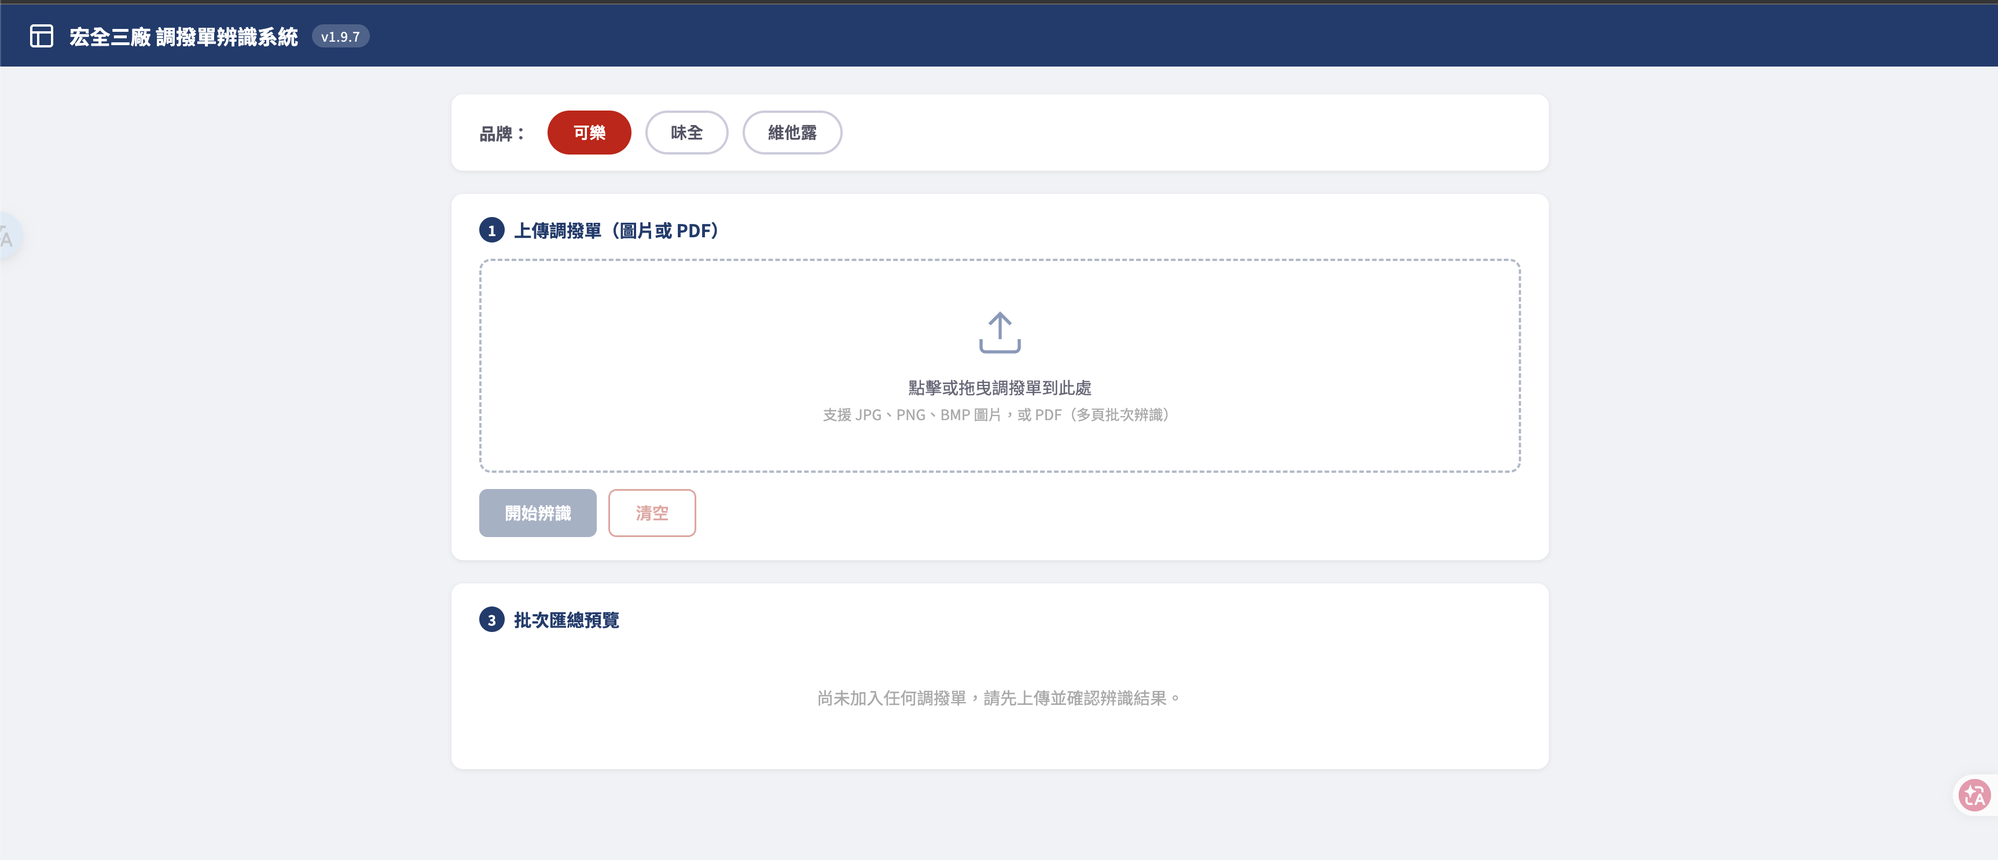
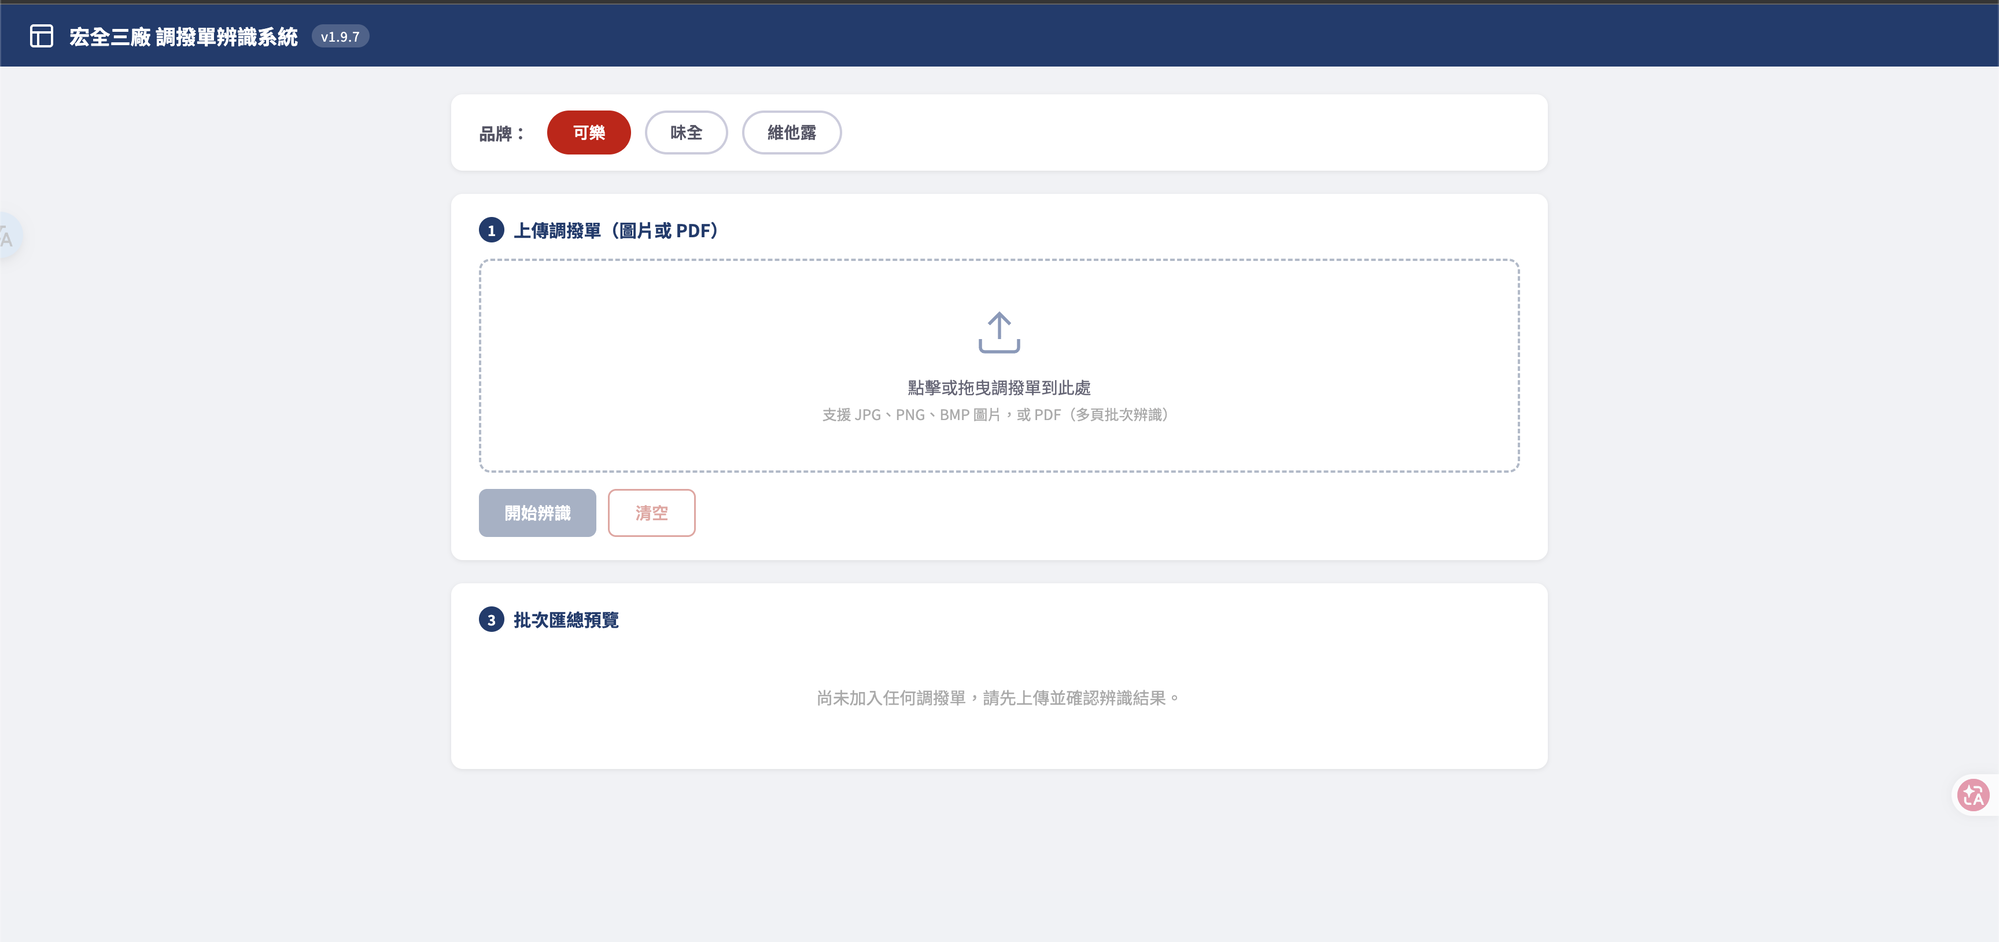
新增案例四畫面截圖、更新案例三截圖，卡片改版為瀏覽器外框樣式
- 補上案例四（職安衛法規整理網站）畫面截圖，更新案例三（調撥單 OCR）截圖
- 卡片改為 macOS 瀏覽器外框樣式：紅黃綠圓點 + 網址列，標題下方分類徽章，底部「前往網站」按鈕
- 首頁顯示總案例數

diff --git a/index.html b/index.html
@@ -16,6 +16,7 @@
     --chip-bg: #eef2ff;
     --chip-text: #2c3e8f;
     --image-bg: #eceef2;
+    --titlebar-bg: #e7e9ee;
   }
   @media (prefers-color-scheme: dark) {
     :root {
@@ -29,6 +30,7 @@
       --chip-bg: #232945;
       --chip-text: #b3c1ff;
       --image-bg: #26292f;
+      --titlebar-bg: #24272e;
     }
   }
   * { box-sizing: border-box; }
@@ -73,7 +75,17 @@
   .changelog-entry .date { font-size: 13px; color: var(--text-muted); margin-bottom: 3px; font-weight: 600; }
   .changelog-entry .notes { font-size: 15px; line-height: 1.6; }
   header h1 { margin: 0 0 10px; font-size: 30px; font-weight: 800; letter-spacing: -0.01em; }
-  header p { margin: 0; color: var(--text-muted); font-size: 16px; }
+  header p { margin: 0 0 14px; color: var(--text-muted); font-size: 16px; }
+  #totalCount {
+    display: inline-block;
+    background: var(--card-bg);
+    border: 1.5px solid var(--border);
+    color: var(--text);
+    font-size: 13.5px;
+    font-weight: 700;
+    padding: 6px 16px;
+    border-radius: 999px;
+  }
 
   /* ---------- controls ---------- */
   .controls {
@@ -127,6 +139,30 @@
     flex-direction: column;
   }
   .card:hover { border-color: var(--accent); }
+  .card .browser-bar {
+    display: flex;
+    align-items: center;
+    gap: 10px;
+    padding: 10px 12px;
+    background: var(--titlebar-bg);
+    border-bottom: 1.5px solid var(--border);
+  }
+  .card .traffic-lights { display: flex; gap: 6px; flex-shrink: 0; }
+  .card .dot { width: 10px; height: 10px; border-radius: 50%; }
+  .card .dot.red { background: #ff5f57; }
+  .card .dot.yellow { background: #febc2e; }
+  .card .dot.green { background: #28c840; }
+  .card .url-pill {
+    flex: 1;
+    background: var(--card-bg);
+    border-radius: 6px;
+    padding: 5px 10px;
+    font-size: 12px;
+    color: var(--text-muted);
+    white-space: nowrap;
+    overflow: hidden;
+    text-overflow: ellipsis;
+  }
   .card .thumb {
     width: 100%;
     height: 180px;
@@ -139,7 +175,16 @@
   .card .thumb img { max-width: 100%; max-height: 100%; object-fit: contain; display: block; }
   .card .thumb .placeholder { color: var(--text-muted); font-size: 14px; }
   .card .body { padding: 18px; display: flex; flex-direction: column; gap: 9px; flex: 1; }
-  .card .category-badge { font-size: 12.5px; font-weight: 700; color: var(--accent); text-transform: uppercase; letter-spacing: 0.03em; }
+  .card .type-badge {
+    display: inline-block;
+    align-self: flex-start;
+    background: var(--chip-bg);
+    color: var(--chip-text);
+    font-size: 12.5px;
+    font-weight: 700;
+    padding: 4px 12px;
+    border-radius: 999px;
+  }
   .card h3 { margin: 0; font-size: 18px; font-weight: 700; line-height: 1.35; }
   .card .summary {
     font-size: 14.5px;
@@ -150,9 +195,22 @@
     -webkit-box-orient: vertical;
     overflow: hidden;
   }
-  .card .meta { font-size: 13.5px; color: var(--text-muted); margin-top: auto; }
+  .card .meta { font-size: 13.5px; color: var(--text-muted); }
   .chips { display: flex; flex-wrap: wrap; gap: 7px; }
   .chip { background: var(--chip-bg); color: var(--chip-text); font-size: 13px; font-weight: 600; padding: 4px 11px; border-radius: 999px; }
+  .card .cta-btn {
+    display: block;
+    text-align: center;
+    background: var(--accent);
+    color: #fff;
+    font-weight: 700;
+    font-size: 15px;
+    padding: 12px;
+    border-radius: 10px;
+    text-decoration: none;
+    margin-top: auto;
+  }
+  .card .cta-btn:hover { opacity: 0.9; }
   #empty { text-align: center; color: var(--text-muted); font-size: 16px; padding: 60px 0; display: none; }
 
   /* ---------- detail view (full page, no overlay) ---------- */
@@ -237,6 +295,7 @@
     </details>
     <h1>AI / 自動化案例庫</h1>
     <p>分享用 AI 或自動化工具解決廠內流程問題的實際案例</p>
+    <span id="totalCount"></span>
   </header>
 
   <div class="controls">
@@ -270,8 +329,20 @@ async function load() {
   const changelog = await changelogRes.json();
   renderVersion(changelog);
   renderCategoryFilters();
+  document.getElementById('totalCount').textContent = `共收錄 ${cases.length} 個案例`;
   render();
   routeFromHash();
+}
+
+function domainFromUrl(url) {
+  if (!url) return '尚無網站連結';
+  try {
+    const u = new URL(url);
+    const path = u.pathname.replace(/\/$/, '');
+    return u.hostname + path;
+  } catch (e) {
+    return url;
+  }
 }
 
 function renderVersion(changelog) {
@@ -376,6 +447,13 @@ function renderCard(c) {
   card.className = 'card';
   card.onclick = () => { location.hash = 'case/' + encodeURIComponent(c.id); };
 
+  const browserBar = document.createElement('div');
+  browserBar.className = 'browser-bar';
+  browserBar.innerHTML = `
+    <div class="traffic-lights"><span class="dot red"></span><span class="dot yellow"></span><span class="dot green"></span></div>
+    <div class="url-pill">${escapeHtml(domainFromUrl(c.url))}</div>
+  `;
+
   const thumb = document.createElement('div');
   thumb.className = 'thumb';
   if (c.screenshot) {
@@ -387,13 +465,18 @@ function renderCard(c) {
   const body = document.createElement('div');
   body.className = 'body';
   body.innerHTML = `
-    <div class="category-badge">${(c.category || []).map(escapeHtml).join(' / ')}</div>
     <h3>${escapeHtml(c.title)}</h3>
+    <div class="type-badge">${(c.category || []).map(escapeHtml).join('、')}</div>
     <div class="summary">${escapeHtml(c.summary || '')}</div>
     <div class="chips">${(c.tools||[]).map(itemLabel).map(t => `<span class="chip">${escapeHtml(t)}</span>`).join('')}</div>
     <div class="meta">製作人：${escapeHtml(c.author || '未提供')}</div>
+    ${c.url ? `<a class="cta-btn" href="${c.url}" target="_blank" rel="noopener">前往網站 →</a>` : ''}
   `;
+  if (c.url) {
+    body.querySelector('.cta-btn').addEventListener('click', (e) => e.stopPropagation());
+  }
 
+  card.appendChild(browserBar);
   card.appendChild(thumb);
   card.appendChild(body);
   return card;